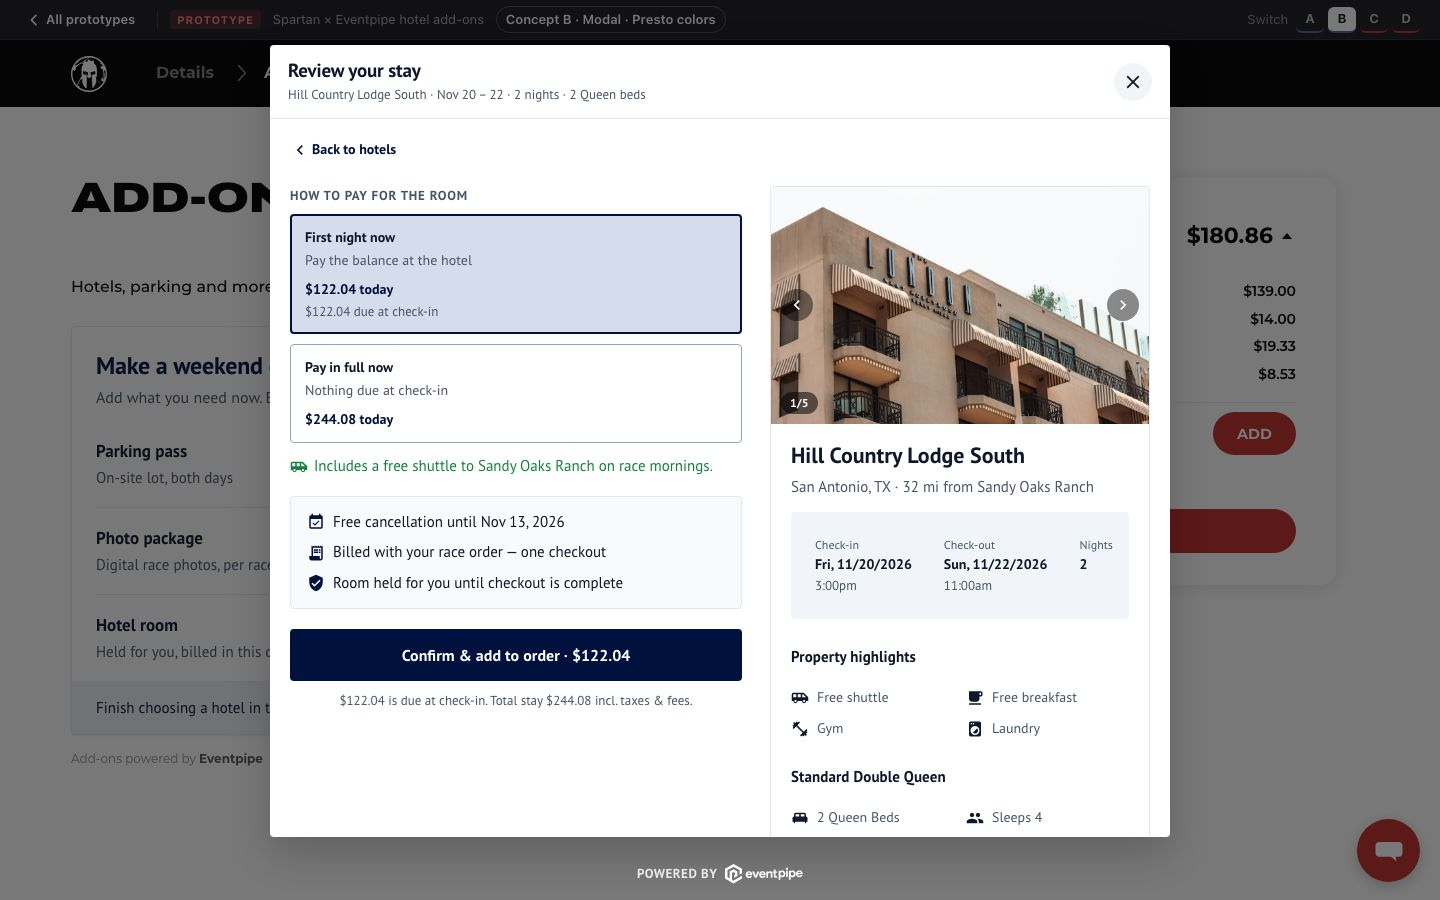
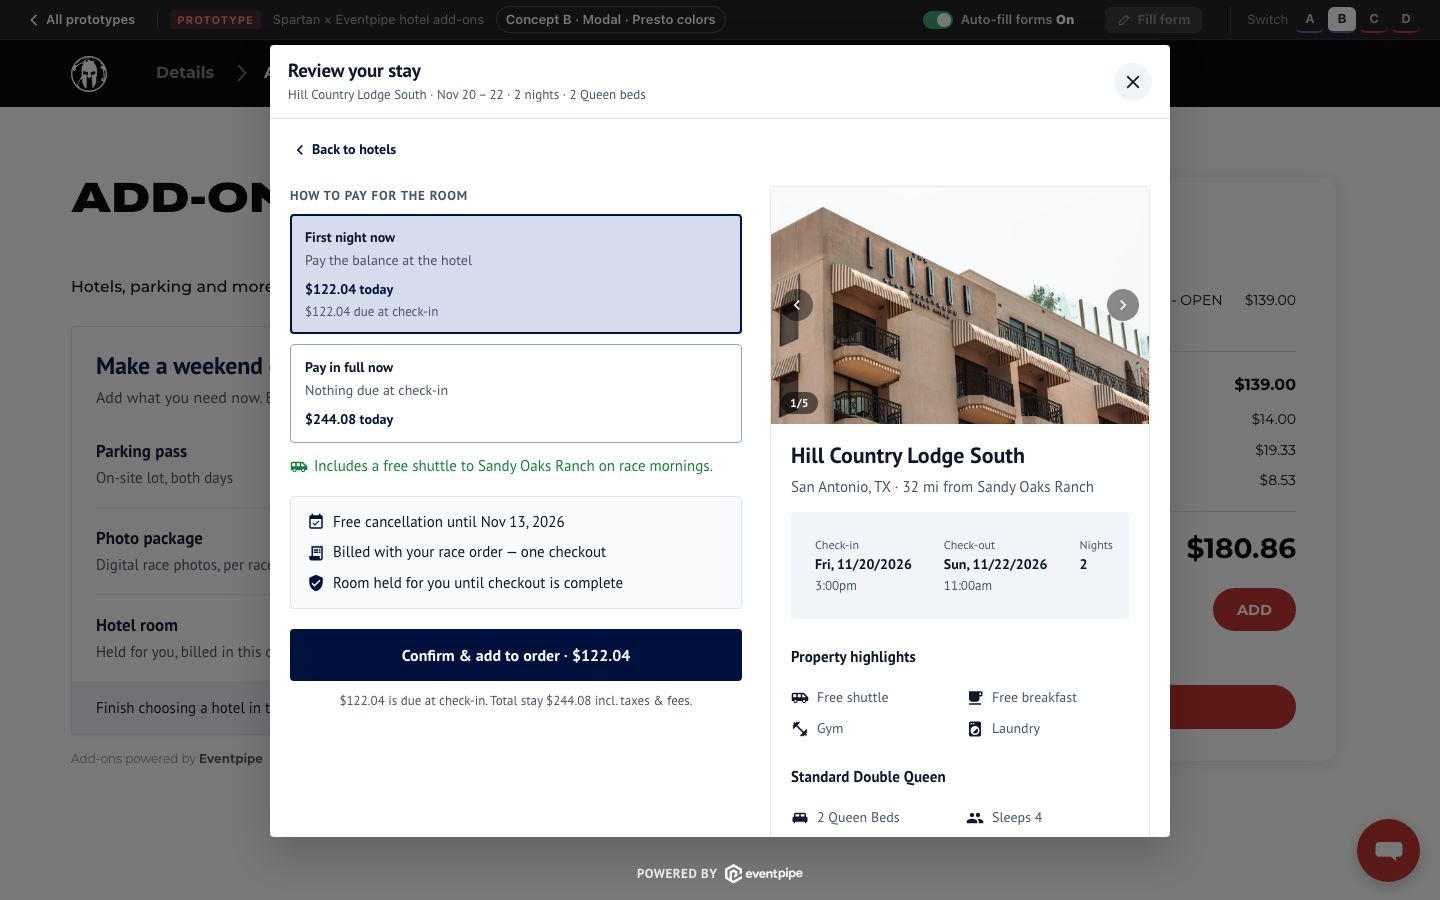
docs: dated changelog for the Spartan × Eventpipe prototypes
- R&D Overview: "Last updated Oct 6, 2026" line, Changelog section (Oct 6 /
  Oct 5), a confirmation screenshot, and refreshed concept + hub captures.
- Introduction card, root README, prototype README and the prototype hub:
  Oct 6, 2026 update notes + changelog.

diff --git a/spartanRace-ticketsocket-ep-demo-v1/src/views/HomeMenu.vue b/spartanRace-ticketsocket-ep-demo-v1/src/views/HomeMenu.vue
@@ -55,7 +55,7 @@ function start (c, jump = false) {
         <span>×</span>
         <strong>Eventpipe</strong>
       </div>
-      <p class="hm__eyebrow">Prototype · Hotel add-ons</p>
+      <p class="hm__eyebrow">Prototype · Hotel add-ons · Updated Oct 6, 2026</p>
       <h1 class="hm__title">2026 San Antonio Spartan Trifecta Weekend</h1>
       <p class="hm__lead">
         Spartan’s TicketSocket checkout with an Eventpipe “Make a weekend of it” step. The hotel finder is built from the
@@ -129,6 +129,26 @@ function start (c, jump = false) {
     <section class="hm__flow" aria-label="Flow">
       <span>Event page</span><i>›</i><span>Ticket cart</span><i>›</i><span>Sign in</span><i>›</i><span>Details</span><i>›</i>
       <span class="is-new">Add-ons</span><i>›</i><span>Extras</span><i>›</i><span class="is-new">Your Details</span><i>›</i><span>Payment</span><i>›</i><span class="is-new">Confirmation</span>
+    </section>
+
+    <section class="hm__log" aria-label="Changelog">
+      <p class="hm__next-h">Changelog</p>
+      <div class="hm__logentry">
+        <p class="hm__logdate">Oct 6, 2026</p>
+        <ul>
+          <li>Itemized order summary: tickets, add-ons and the hotel stay broken out line by line, with the Total at the bottom.</li>
+          <li>Confirmation page after Pay: Spartan logo centered, Manage booking, full hotel details plus the race order.</li>
+          <li>Auto-fill forms toggle and Fill form button in the prototype bar.</li>
+          <li>Hotel maps now load on the hosted site.</li>
+        </ul>
+      </div>
+      <div class="hm__logentry">
+        <p class="hm__logdate">Oct 5, 2026</p>
+        <ul>
+          <li>Spartan event page + TicketSocket checkout; Eventpipe Add-ons step with the hotel finder.</li>
+          <li>Concepts A–D (inline / modal × Presto / Spartan colors); Your Details step; deep links.</li>
+        </ul>
+      </div>
     </section>
 
     <section class="hm__next">
@@ -216,6 +236,10 @@ function start (c, jump = false) {
 .hm__flow span.is-new { border-color: #ff5a5f; color: #fff; }
 .hm__flow i { font-style: normal; opacity: 0.5; }
 .hm__next { margin-top: 30px; }
+.hm__log { margin-top: 30px; max-width: 860px; }
+.hm__logentry { display: grid; grid-template-columns: 110px 1fr; gap: 16px; margin-top: 12px; }
+.hm__logdate { font-size: 13px; font-weight: 700; color: #fff; padding-top: 1px; }
+.hm__logentry ul { margin: 0; padding-left: 18px; list-style: disc; font-size: 14px; line-height: 1.55; color: rgba(255, 255, 255, 0.72); }
 .hm__next-h { font-size: 12px; font-weight: 700; letter-spacing: 0.12em; text-transform: uppercase; color: rgba(255, 255, 255, 0.45); }
 .hm__chips { display: flex; flex-wrap: wrap; gap: 10px; margin-top: 10px; }
 .hm__chips a { padding: 6px 12px; border-radius: 6px; background: rgba(255, 255, 255, 0.08); color: #fff; font-size: 13px; text-decoration: none; }

diff --git a/spartanRace-ticketsocket-ep-demo-v1/README.md b/spartanRace-ticketsocket-ep-demo-v1/README.md
@@ -55,8 +55,9 @@ The prototype banner switches concepts while keeping you on the same screen.
 | `checkout/extras` | Race for a Cause (givestar) + refundable booking | 4.24.10 |
 | `checkout/your-details` | **New · Eventpipe:** library checkout steps 1–4 (contact, payment method, review your reservation, policies). No order rail and no Book Now; Continue goes to Payment | Checkout Experience Expanded |
 | `checkout/payment` | Sezzle / card (Stripe Link) / Flex + terms → **Pay**, with a Hotel reservation block | 4.24.21 |
+| `checkout/confirmed` | **New · Eventpipe:** confirmation (library Single Reservation) with the hotel stay + race order; Spartan logo centered, Manage booking | Confirmation story |
 
-**Pay** shows a processing state and stops. No order is placed. A reload restarts the add-ons
+**Pay** shows a processing state, then the confirmation. No real order is placed. A reload restarts the add-ons
 step. Hover the faint **DEMO** tab in the bottom-left corner to jump between screens, switch
 concepts or reset the demo.
 
@@ -79,6 +80,21 @@ Hill Country Lodge (2 Queen beds, Nov 20–22) works out to $122.04 or $244.08, 
 sketch. The map needs `VITE_GOOGLE_MAPS_API_KEY` (repo-root `.env` locally, the
 `GOOGLE_MAPS_API_KEY` Actions secret when hosted); without it the map shows the library's
 "key needed" fallback.
+
+## Changelog
+
+**Oct 6, 2026**
+- Itemized order summary (Tickets → Add-ons → *Hotel & weekend add-ons by Eventpipe*, with the
+  hotel fully itemized → Subtotal → fees → Total at the bottom). It pins by its bottom edge when tall.
+- Confirmation step after Pay (`checkout/confirmed`): black bar with the Spartan logo centered and
+  Manage booking; library `ConfirmationPage` (Single Reservation) with full hotel details and a
+  race-order card.
+- Prototype bar: **Auto-fill forms** toggle (persists across Reset demo) and a **Fill form** button.
+- Hotels now have street addresses.
+
+**Oct 5, 2026**
+- Host page + checkout; Eventpipe Add-ons step; concepts A–D; Your Details step; prototype hub,
+  banner and deep links; hosted under the Storybook site.
 
 ## Phase 2: widget slot
 

diff --git a/README.md b/README.md
@@ -75,6 +75,10 @@ Write-up: Storybook **Widgets & Embeds → R&D Overview**. Source in
 
 **▶ Launch: https://epprestodesign.github.io/presto-2026/spartanRace-ticketsocket-ep-demo-v1/**
 
+**Updated Oct 6, 2026:** itemized order summary (hotel stay broken out), a confirmation page
+after Pay, and an Auto-fill forms toggle with a Fill form button. Full changelog on the Storybook
+R&D Overview page and in the prototype README.
+
 ```bash
 cd spartanRace-ticketsocket-ep-demo-v1
 npm run dev   # → http://localhost:6201
